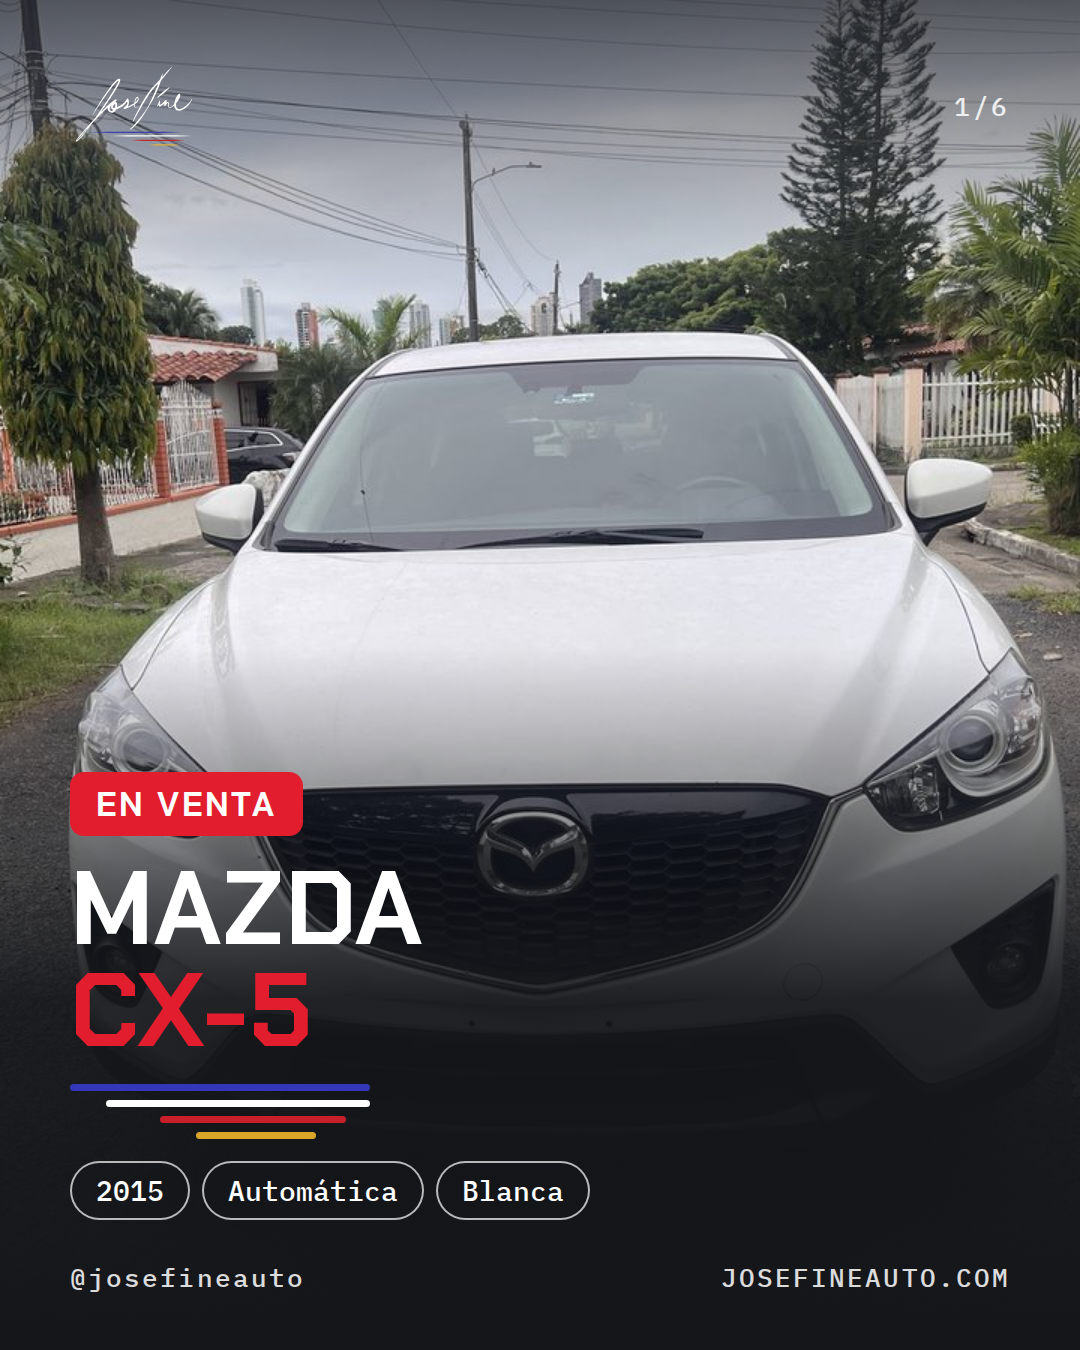
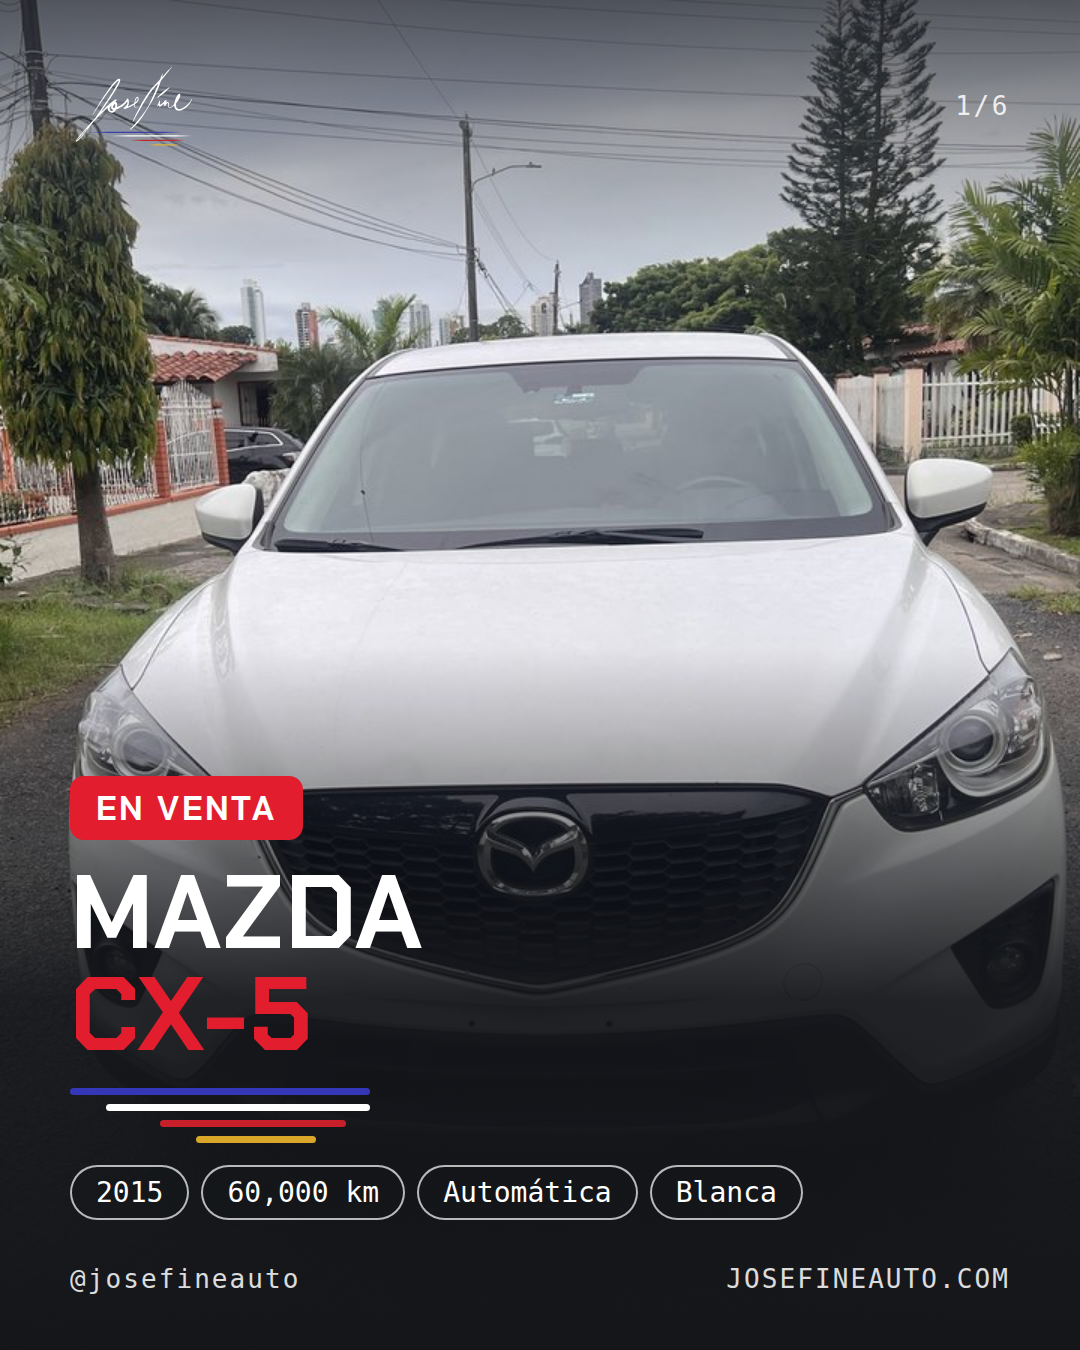
Web: Mazda CX-5 2015 con 60,000 km y precio $8,500 (cifras del dueño); post con km
Claude-Session: https://claude.ai/code/session_01Waia73eHNWtSrif5AzmwHD

diff --git a/herramientas/build/generar-post-cx5.js b/herramientas/build/generar-post-cx5.js
@@ -1,5 +1,5 @@
 /* Carrusel de venta: Mazda CX-5 2015. 6 láminas 1080x1350.
-   Año dado por el dueño (2026-10-15); lo demás visible en las fotos (SkyActiv, automática, blanca, interior negro).
+   Año y km dados por el dueño (2026-10-15); lo demás visible en las fotos (SkyActiv, automática, blanca, interior negro).
    Placa real tapada con la de Josefine; precio solo por DM.
    Uso: NODE_PATH=<node_modules con playwright> node herramientas/build/generar-post-cx5.js [chakra-petch-700.ttf]
    Salida: web/kit/img/post8-cx5-XX.png */
@@ -52,7 +52,7 @@ const T = 6;
 const LAMINAS = [
   `<div class="s"><div class="bg" style="background-image:url('${foto(1)}');background-position:center 55%"></div><div class="velo"></div>${top(`1/${T}`)}
     <div class="txt"><span class="tag">En venta</span><h1>Mazda<br><em>CX-5</em></h1>${F}
-    <div class="chips"><span>2015</span><span>Automática</span><span>Blanca</span></div></div>${pie}</div>`,
+    <div class="chips"><span>2015</span><span>60,000 km</span><span>Automática</span><span>Blanca</span></div></div>${pie}</div>`,
   `<div class="s"><div class="bg" style="background-image:url('${foto(2)}');background-position:45% 60%"></div><div class="velo"></div>${top(`2/${T}`)}
     <div class="txt"><div class="chips"><span>SUV familiar</span><span>Rines de aluminio</span></div></div>${pie}</div>`,
   `<div class="s"><div class="dos"><div style="background-image:url('${foto(4)}')"></div><div style="background-image:url('${foto(3)}');background-position:60% center"></div></div><div class="velo"></div>${top(`3/${T}`)}

diff --git a/web/kit/index.html b/web/kit/index.html
@@ -52,7 +52,7 @@
     var WEB = "josefineauto.com";
     var POSTS = [
       { id: "post8-cx5", n: 6, semana: "HOY · En venta", titulo: "Mazda CX-5 2015",
-        texto: "EN VENTA 🔥 Mazda CX-5 2015\n\n📍 Panamá · Automática · Blanca\n\n✅ Motor SkyActiv\n✅ Rines de aluminio\n✅ Interior negro\n✅ Ideal para la familia\n\n💬 Precio por DM\n👇 Comenta CX5 y te escribimos\n🌐 " + WEB + "\n\n#mazda #mazdacx5 #cx5 #carrospanama #autospanama #panama #josefineauto" },
+        texto: "EN VENTA 🔥 Mazda CX-5 2015\n\n📍 Panamá · 60,000 km · Automática · Blanca\n\n✅ Motor SkyActiv\n✅ Rines de aluminio\n✅ Interior negro\n✅ Ideal para la familia\n\n💬 Precio por DM\n👇 Comenta CX5 y te escribimos\n🌐 " + WEB + "\n\n#mazda #mazdacx5 #cx5 #carrospanama #autospanama #panama #josefineauto" },
       { id: "post7-x3", n: 7, semana: "HOY · En venta", titulo: "BMW X3 xDrive28i M Sport 2014",
         texto: "EN VENTA 🔥 BMW X3 xDrive28i M Sport 2014\n\n📍 Panamá · 150,590 km · Automática\n\n✅ Paquete M Sport\n✅ Volante M con levas\n✅ Doble salida de escape\n✅ Motor TwinPower Turbo\n✅ Interior negro\n\n💬 Precio por DM\n👇 Comenta X3 y te escribimos\n🌐 " + WEB + "\n\n#bmw #bmwx3 #msport #carrospanama #autospanama #panama #josefineauto" },
       { id: "post6-100", n: 1, semana: "HOY · Gracias (1 imagen)", titulo: "¡Gracias! 100 seguidores",

diff --git a/companion/web.html b/companion/web.html
@@ -566,7 +566,9 @@ window.INVENTARIO = [
     "marca": "Mazda",
     "modelo": "CX-5",
     "anio": 2015,
+    "km": 60000,
     "transmision": "Automática",
+    "precio": 8500,
     "estado": "disponible",
     "fotos": [
       "img/carros/mazda-cx-5-2015/01.jpg",

diff --git a/web/datos.js b/web/datos.js
@@ -108,7 +108,9 @@ window.INVENTARIO = [
     "marca": "Mazda",
     "modelo": "CX-5",
     "anio": 2015,
+    "km": 60000,
     "transmision": "Automática",
+    "precio": 8500,
     "estado": "disponible",
     "fotos": [
       "img/carros/mazda-cx-5-2015/01.jpg",

diff --git a/docs/normas.md b/docs/normas.md
@@ -16,6 +16,7 @@ Lo que está aquí no se vuelve a preguntar. Si dos normas chocan, manda la más
 | N09 | 2026-10-06 | GLE 53 | Precio de publicación: «dejale lo que dice el ciente y de en lo que se venda de ahi se saca la comision» → precio del cliente (ya no se publica, ver N10); la comisión sale del precio final | Chat |
 | N10 | 2026-10-06 | GLE 53 | «quita el precio y quita mi numero y di que precio al DM» (post y ficha web; reemplaza el precio publicado de N09) | Chat |
 | N11 | 2026-10-14 | Web: GLE 53 y BMW X3 | «En el mercedes quita el Precio a comisiones y pon 65,000 y al Bmw 11,500» → GLE 53 sin etiqueta "A comisión" y $65,000; BMW X3 M Sport 2014 $11,500 (reemplaza N10 para la web). Publicado en la misma sesión por elección del dueño ("Hazlo aquí, por esta vez"), excepción a la regla diamante de precios en sesión nueva | Chat (pregunta de opción múltiple) |
+| N12 | 2026-10-15 | Web: Mazda CX-5 2015 | «60 mil Km, 8,500 precio / Quita lo de doble salida de escape» → km 60,000 y precio $8,500 en la web (el post sigue "Precio por DM", como N11). "Doble salida de escape" ya se había quitado de la CX-5 antes de publicarla; el dueño confirmó que el X3 se queda igual. Cifra dada por el dueño en el mensaje; publicada en la misma sesión, como en N11 | Chat |
 
 ## Consecuencias de N06 en este proyecto (2026-10-05)
 - Gate `herramientas/check.py` en hook Stop y pre-push; lista `PENDIENTE-DUENO.md`; este registro; `CONTINUAR.md`; `IDEAS.md`; agente revisor.
